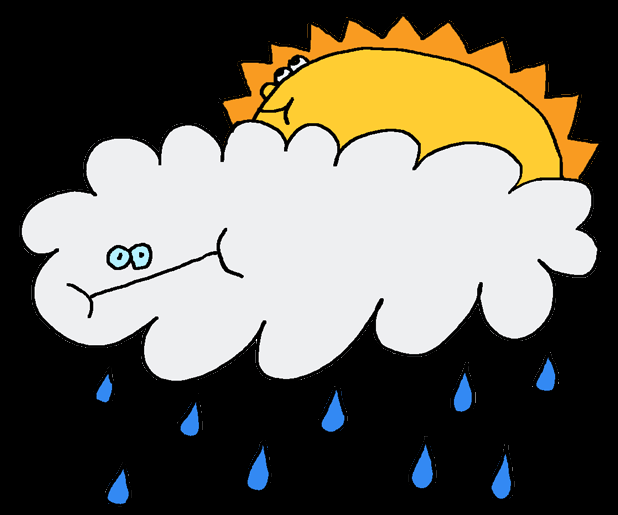
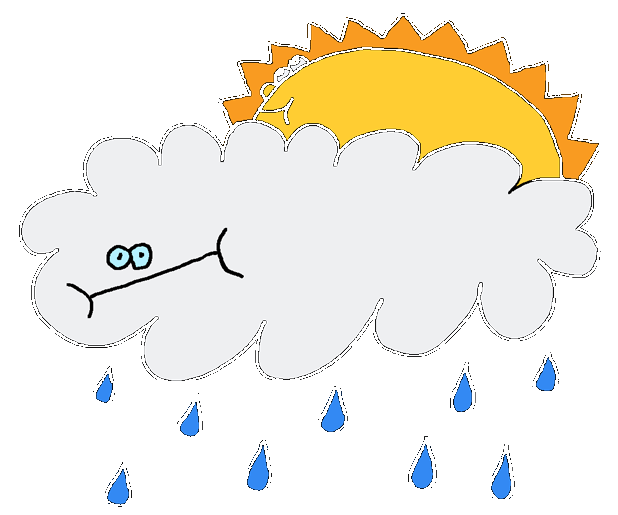
Use png alpha channel in effects

diff --git a/src/effects/animation.cpp b/src/effects/animation.cpp
@@ -8,9 +8,9 @@ Animation::~Animation() {}
 
 // Add a frame to animation
 void Animation::addFrame(const std::string& img_path) {
-	fs::path abs_img_path = fs::absolute(img_path);
+    fs::path abs_img_path = fs::absolute(img_path);
     cv::Mat frame;
-    frame = cv::imread(abs_img_path.string(), cv::IMREAD_COLOR);
+    frame = cv::imread(abs_img_path.string(), -1);
     frames.push_back(frame);
 }
 
@@ -48,104 +48,70 @@ void Animation::setFPS(float fps) {
     }
 }
 
+void Animation::overlayImage(const cv::Mat& background, const cv::Mat& foreground,
+                  cv::Mat& output, cv::Point2i location) {
+    background.copyTo(output);
 
-// Overlay image to another image
-void Animation::overlayImage(cv::Mat & draw, cv::Mat & overlay, int x, int bottom_y) {
-   
-    // Calculate the position of overlay
-    int y2 = bottom_y;
-    int x1 = x;
-    int y1 = y2 - overlay.rows;
-    int x2 = x1 + overlay.cols;
-    
-    cv::Rect overlay_crop_window(0, 0, overlay.cols, overlay.rows);
-    std::cout << overlay_crop_window << std::endl;
+    // start at the row indicated by location, or at row 0 if location.y is
+    // negative.
+    for (int y = std::max(location.y, 0); y < background.rows; ++y) {
+        int fY = y - location.y;  // because of the translation
 
-    // The left edge of overlay goes over the image boundary
-    if (x1 < 0) {
-        int x_increment = -x1;
-        overlay_crop_window.x += x_increment;
-        overlay_crop_window.width -= x_increment;
-        x1 = 0;
+        // we are done of we have processed all rows of the foreground image.
+        if (fY >= foreground.rows) break;
+
+        // start at the column indicated by location,
+
+        // or at column 0 if location.x is negative.
+        for (int x = std::max(location.x, 0); x < background.cols; ++x) {
+            int fX = x - location.x;  // because of the translation.
+
+            // we are done with this row if the column is outside of the
+            // foreground image.
+            if (fX >= foreground.cols) break;
+
+            // determine the opacity of the foregrond pixel, using its fourth
+            // (alpha) channel.
+            double opacity =
+                ((double)foreground.data[fY * foreground.step +
+                                         fX * foreground.channels() + 3])
+
+                / 255.;
+
+            // and now combine the background and foreground pixel, using the
+            // opacity,
+
+            // but only if opacity > 0.
+            for (int c = 0; opacity > 0 && c < output.channels(); ++c) {
+                unsigned char foregroundPx =
+                    foreground.data[fY * foreground.step +
+                                    fX * foreground.channels() + c];
+                unsigned char backgroundPx =
+                    background.data[y * background.step +
+                                    x * background.channels() + c];
+                output.data[y * output.step + output.channels() * x + c] =
+                    backgroundPx * (1. - opacity) + foregroundPx * opacity;
+            }
+        }
     }
-
-    // The top edge of overlay goes over the image boundary
-    if (y1 < 0) {
-        int y_increment = -y1;
-        overlay_crop_window.y += y_increment;
-        overlay_crop_window.height -= y_increment;
-        y1 = 0;
-    }
-
-    // The right edge of overlay goes over the image boundary
-    if (x2 >= draw.cols) {
-        overlay_crop_window.width -= x2 - draw.cols + 1;
-        x2 = draw.cols - 1;
-    }
-
-    // The bottom edge of overlay goes over the image boundary
-    if (y2 >= draw.rows) {
-        overlay_crop_window.height -= y2 - draw.rows + 1;
-        y2 = draw.rows - 1;
-    }
-
-    cv::Point tl(x1, y1);
-    cv::Point br(x2, y2);
-    cv::Rect overlay_pos(tl, br);
-
-    std::cout << overlay_crop_window << std::endl;
-
-    cv::Mat crop_overlay = overlay(overlay_crop_window);
-
-    // Merge overlay into image
-    cv::Mat roi = draw(overlay_pos);  // Image of background image
-    cv::Mat mask;
-    cv::Mat mask_inv;
-    cv::Mat crop_overlay_gray;
-    cv::cvtColor(crop_overlay, crop_overlay_gray, cv::COLOR_BGR2GRAY);
-    cv::threshold(crop_overlay_gray, mask, 1, 255, cv::THRESH_BINARY);
-    cv::bitwise_not(mask, mask_inv);
-
-    cv::Mat background, foreground;
-    cv::bitwise_and(roi, roi, background, mask_inv);
-    cv::bitwise_and(crop_overlay, crop_overlay, foreground, mask);
-
-    cv::Mat merged;
-    cv::add(background, foreground, merged);
-
-    merged.copyTo(roi);
-
-}
-
-// Apply animation into image at position cv::Rect rect
-void Animation::apply(cv::Mat& draw, cv::Rect rect) {
-    const cv::Mat& animation = getFrame();
-
-    float scale_factor = static_cast<float>(rect.width) / animation.cols;
-
-    // Optain the scaled animation
-    cv::Mat scaled_animation;
-    cv::resize(animation, scaled_animation, cv::Size(), scale_factor, scale_factor);
-
-    // Calculate the position of animation
-    int x = rect.tl().x;
-    int bottom_y = rect.tl().y - rect.height / 5;
-
-    overlayImage(draw, scaled_animation, x, bottom_y);
-    
 }
 
 
 // Apply animation into image at position cv::Rect rect
-void Animation::apply(cv::Mat& draw, int animation_width, int left, int bottom) {
+void Animation::apply(cv::Mat& draw, int animation_width, int left,
+                      int bottom) {
     const cv::Mat& animation = getFrame();
 
-    float scale_factor = static_cast<float>(animation_width) / animation.cols ;
+    float scale_factor = static_cast<float>(animation_width) / animation.cols;
 
     // Optain the scaled animation
     cv::Mat scaled_animation;
-    cv::resize(animation, scaled_animation, cv::Size(), scale_factor, scale_factor);
+    cv::resize(animation, scaled_animation, cv::Size(), scale_factor,
+               scale_factor);
 
-    overlayImage(draw, scaled_animation, left, bottom);
-    
+    // overlayImage(draw, scaled_animation, left, bottom);
+    cv::Mat result;
+    int y1 = bottom - scaled_animation.rows;
+    overlayImage(draw, scaled_animation, result, cv::Point2i(left, y1));
+    draw = result;
 }

diff --git a/src/effects/animation.h b/src/effects/animation.h
@@ -22,11 +22,10 @@ class Animation {
     const cv::Mat & getFrame();
     void setFPS(float fps);
 
-	// Apply animation into image at position cv::Rect rect
-	void apply(cv::Mat & draw, cv::Rect rect);
-
-    // Overlay image to another image
-    void overlayImage(cv::Mat & draw, cv::Mat & overlay, int x, int bottom_y);
+    // Code from: http://jepsonsblog.blogspot.com/2012/10/overlay-transparent-image-in-opencv.html
+    // NOTE: background must be in BGR, foreground must be in GBRA format (png image)
+    void overlayImage(const cv::Mat& background, const cv::Mat& foreground,
+                  cv::Mat& output, cv::Point2i location);
 
     // Apply animation into image at position cv::Rect rect
     void apply(cv::Mat& draw, int animation_width, int left, int bottom);

diff --git a/src/effects/effect_cloud.cpp b/src/effects/effect_cloud.cpp
@@ -17,7 +17,14 @@ void EffectCloud::apply(cv::Mat & draw, std::vector<LandMarkResult> & landmarks)
     // *** Draw cloud animation
     for (size_t i = 0; i < landmarks.size(); ++i) {
         cv::Rect face = landmarks[i].getFaceRect();
-        cloud_animation.apply(draw, face);
+
+        // Calculate the position of animation
+        int animation_width = face.width * 1.2;
+
+        int left = face.tl().x - (animation_width - face.width) / 2;
+        int bottom = face.tl().y - face.width / 5;
+
+        cloud_animation.apply(draw, animation_width, left, bottom);
     }
 
 }

diff --git a/src/effects/image_effect.cpp b/src/effects/image_effect.cpp
@@ -3,7 +3,7 @@
 
 ImageEffect::ImageEffect(std::string name, std::string icon_path) {
     this->name = name;
-    this->icon = cv::imread(icon_path, cv::IMREAD_COLOR);
+    this->icon = cv::imread(icon_path, -1);
 }
 
 ImageEffect::~ImageEffect() {}
